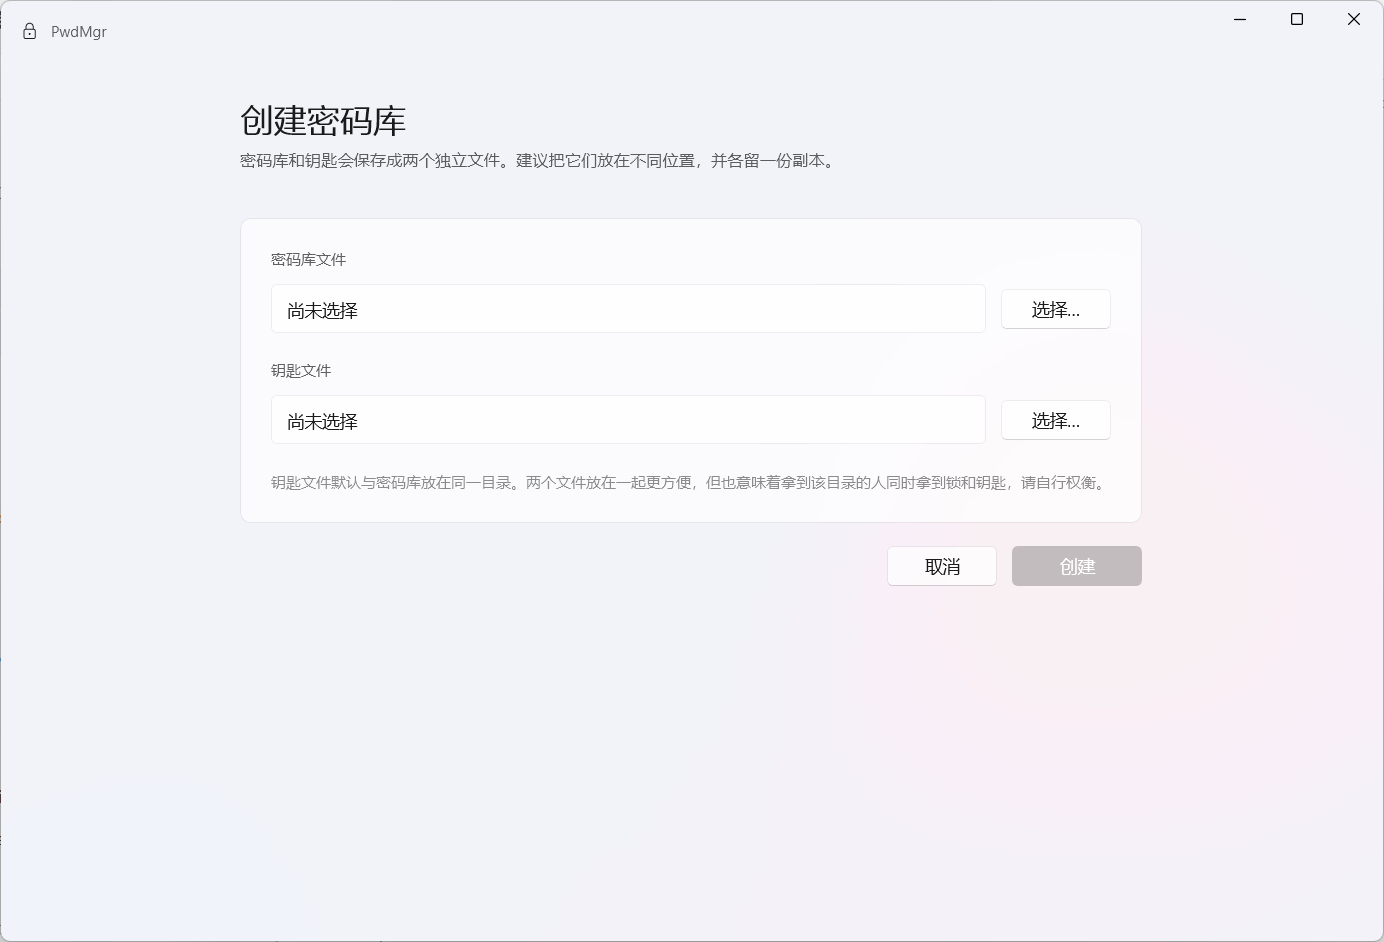
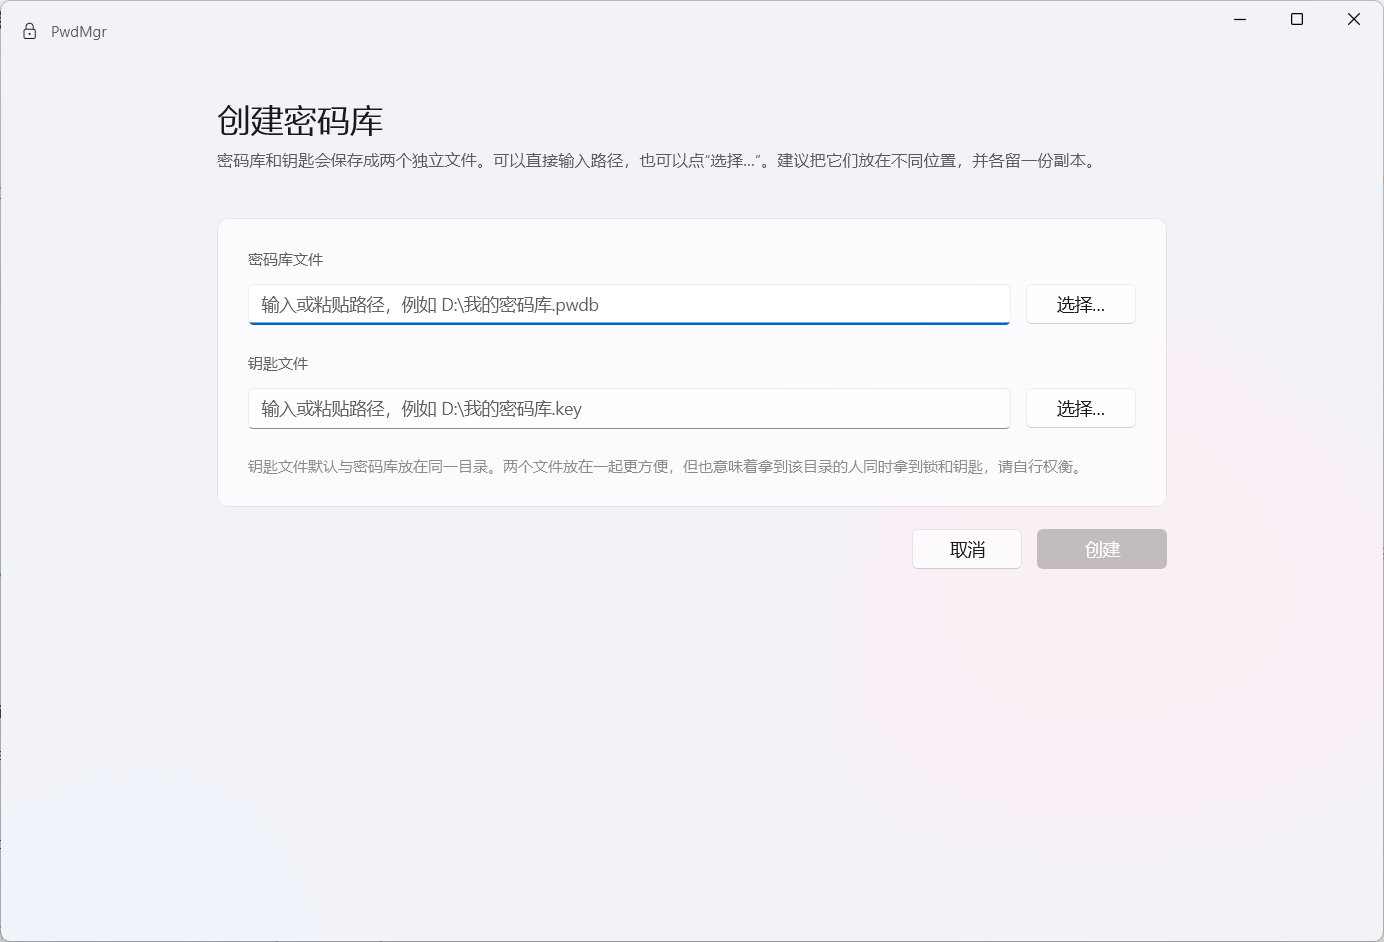
界面微调：欢迎页图标与标题居中；创建/打开页支持直接输入路径

diff --git a/src/PwdMgr.App/Views/CreateVaultPage.xaml b/src/PwdMgr.App/Views/CreateVaultPage.xaml
@@ -11,7 +11,7 @@
                 <TextBlock Text="创建密码库" Style="{StaticResource PageTitleStyle}" />
                 <TextBlock
                     Style="{StaticResource PageSubtitleStyle}"
-                    Text="密码库和钥匙会保存成两个独立文件。建议把它们放在不同位置，并各留一份副本。" />
+                    Text="密码库和钥匙会保存成两个独立文件。可以直接输入路径，也可以点“选择…”。建议把它们放在不同位置，并各留一份副本。" />
             </StackPanel>
 
             <InfoBar
@@ -26,17 +26,12 @@
                     <StackPanel Spacing="8">
                         <TextBlock Text="密码库文件" Style="{StaticResource FieldLabelStyle}" />
                         <Grid ColumnDefinitions="*,Auto" ColumnSpacing="12">
-                            <Border
-                                Background="{ThemeResource ControlFillColorDefaultBrush}"
-                                BorderBrush="{ThemeResource ControlStrokeColorDefaultBrush}"
-                                BorderThickness="1"
-                                CornerRadius="4"
-                                Padding="12,9">
-                                <TextBlock
-                                    Text="{x:Bind ViewModel.VaultPathDisplay, Mode=OneWay}"
-                                    TextTrimming="CharacterEllipsis"
-                                    VerticalAlignment="Center" />
-                            </Border>
+                            <TextBox
+                                x:Name="VaultPathBox"
+                                AutomationProperties.AutomationId="VaultPathBox"
+                                Text="{x:Bind ViewModel.VaultPath, Mode=TwoWay, UpdateSourceTrigger=PropertyChanged}"
+                                PlaceholderText="输入或粘贴路径，例如 D:\我的密码库.pwdb"
+                                TextChanged="OnVaultPathChanged" />
                             <Button Grid.Column="1" Content="选择…" Click="OnPickVaultClick" MinWidth="88" />
                         </Grid>
                     </StackPanel>
@@ -44,17 +39,12 @@
                     <StackPanel Spacing="8">
                         <TextBlock Text="钥匙文件" Style="{StaticResource FieldLabelStyle}" />
                         <Grid ColumnDefinitions="*,Auto" ColumnSpacing="12">
-                            <Border
-                                Background="{ThemeResource ControlFillColorDefaultBrush}"
-                                BorderBrush="{ThemeResource ControlStrokeColorDefaultBrush}"
-                                BorderThickness="1"
-                                CornerRadius="4"
-                                Padding="12,9">
-                                <TextBlock
-                                    Text="{x:Bind ViewModel.KeyPathDisplay, Mode=OneWay}"
-                                    TextTrimming="CharacterEllipsis"
-                                    VerticalAlignment="Center" />
-                            </Border>
+                            <TextBox
+                                x:Name="KeyPathBox"
+                                AutomationProperties.AutomationId="KeyPathBox"
+                                Text="{x:Bind ViewModel.KeyPath, Mode=TwoWay, UpdateSourceTrigger=PropertyChanged}"
+                                PlaceholderText="输入或粘贴路径，例如 D:\我的密码库.key"
+                                TextChanged="OnKeyPathChanged" />
                             <Button Grid.Column="1" Content="选择…" Click="OnPickKeyClick" MinWidth="88" />
                         </Grid>
                     </StackPanel>

diff --git a/src/PwdMgr.App/Views/UnlockVaultPage.xaml b/src/PwdMgr.App/Views/UnlockVaultPage.xaml
@@ -11,7 +11,7 @@
                 <TextBlock Text="打开密码库" Style="{StaticResource PageTitleStyle}" />
                 <TextBlock
                     Style="{StaticResource PageSubtitleStyle}"
-                    Text="同时指定密码库文件与它对应的钥匙文件。两者必须来自同一次创建。" />
+                    Text="同时指定密码库文件与它对应的钥匙文件，可以直接输入或粘贴路径。两者必须来自同一次创建。" />
             </StackPanel>
 
             <InfoBar
@@ -26,17 +26,11 @@
                     <StackPanel Spacing="8">
                         <TextBlock Text="密码库文件" Style="{StaticResource FieldLabelStyle}" />
                         <Grid ColumnDefinitions="*,Auto" ColumnSpacing="12">
-                            <Border
-                                Background="{ThemeResource ControlFillColorDefaultBrush}"
-                                BorderBrush="{ThemeResource ControlStrokeColorDefaultBrush}"
-                                BorderThickness="1"
-                                CornerRadius="4"
-                                Padding="12,9">
-                                <TextBlock
-                                    Text="{x:Bind ViewModel.VaultPathDisplay, Mode=OneWay}"
-                                    TextTrimming="CharacterEllipsis"
-                                    VerticalAlignment="Center" />
-                            </Border>
+                            <TextBox
+                                x:Name="VaultPathBox"
+                                AutomationProperties.AutomationId="VaultPathBox"
+                                Text="{x:Bind ViewModel.VaultPath, Mode=TwoWay, UpdateSourceTrigger=PropertyChanged}"
+                                PlaceholderText="输入或粘贴路径，例如 D:\我的密码库.pwdb" />
                             <Button Grid.Column="1" Content="选择…" Click="OnPickVaultClick" MinWidth="88" />
                         </Grid>
                     </StackPanel>
@@ -44,17 +38,11 @@
                     <StackPanel Spacing="8">
                         <TextBlock Text="钥匙文件" Style="{StaticResource FieldLabelStyle}" />
                         <Grid ColumnDefinitions="*,Auto" ColumnSpacing="12">
-                            <Border
-                                Background="{ThemeResource ControlFillColorDefaultBrush}"
-                                BorderBrush="{ThemeResource ControlStrokeColorDefaultBrush}"
-                                BorderThickness="1"
-                                CornerRadius="4"
-                                Padding="12,9">
-                                <TextBlock
-                                    Text="{x:Bind ViewModel.KeyPathDisplay, Mode=OneWay}"
-                                    TextTrimming="CharacterEllipsis"
-                                    VerticalAlignment="Center" />
-                            </Border>
+                            <TextBox
+                                x:Name="KeyPathBox"
+                                AutomationProperties.AutomationId="KeyPathBox"
+                                Text="{x:Bind ViewModel.KeyPath, Mode=TwoWay, UpdateSourceTrigger=PropertyChanged}"
+                                PlaceholderText="输入或粘贴路径，例如 D:\我的密码库.key" />
                             <Button Grid.Column="1" Content="选择…" Click="OnPickKeyClick" MinWidth="88" />
                         </Grid>
                     </StackPanel>

diff --git a/src/PwdMgr.App/Views/WelcomePage.xaml b/src/PwdMgr.App/Views/WelcomePage.xaml
@@ -15,7 +15,7 @@
                 Width="60"
                 Height="60"
                 CornerRadius="16"
-                HorizontalAlignment="Left"
+                HorizontalAlignment="Center"
                 Background="{ThemeResource AccentFillColorDefaultBrush}">
                 <FontIcon
                     Glyph="&#xE72E;"
@@ -24,7 +24,11 @@
             </Border>
 
             <StackPanel Spacing="10">
-                <TextBlock Text="PwdMgr" FontSize="34" FontWeight="SemiBold" />
+                <TextBlock
+                    Text="PwdMgr"
+                    FontSize="34"
+                    FontWeight="SemiBold"
+                    HorizontalAlignment="Center" />
                 <TextBlock
                     Style="{StaticResource PageSubtitleStyle}"
                     Text="本地离线密码管理器。密码库是一个加密文件，钥匙文件由你自己保管；软件运行时不联网，也不会上传任何数据。" />

diff --git a/src/PwdMgr.App/Views/CreateVaultPage.xaml.cs b/src/PwdMgr.App/Views/CreateVaultPage.xaml.cs
@@ -15,6 +15,36 @@ public sealed partial class CreateVaultPage : Page
 
     public CreateVaultViewModel ViewModel { get; } = new();
 
+    /// <summary>最近一次自动推导出来的钥匙路径；用户自己改过之后就不再覆盖。</summary>
+    private string _autoKeyPath = string.Empty;
+
+    private void OnVaultPathChanged(object sender, TextChangedEventArgs e)
+    {
+        var vaultPath = (sender as TextBox)?.Text.Trim() ?? string.Empty;
+        var suggestion = FilePickerService.SuggestKeyPath(vaultPath);
+        if (suggestion.Length == 0)
+        {
+            return;
+        }
+
+        var keyPath = ViewModel.KeyPath.Trim();
+        if (keyPath.Length == 0 || string.Equals(keyPath, _autoKeyPath, StringComparison.OrdinalIgnoreCase))
+        {
+            ViewModel.KeyPath = suggestion;
+            _autoKeyPath = suggestion;
+        }
+    }
+
+    private void OnKeyPathChanged(object sender, TextChangedEventArgs e)
+    {
+        // 用户自己改了钥匙路径，就不再自动覆盖。
+        var text = (sender as TextBox)?.Text.Trim() ?? string.Empty;
+        if (!string.Equals(text, _autoKeyPath, StringComparison.OrdinalIgnoreCase))
+        {
+            _autoKeyPath = string.Empty;
+        }
+    }
+
     private void OnPickVaultClick(object sender, RoutedEventArgs e)
     {
         var path = FilePickerService.PickVaultToCreate(App.ShellWindow, "我的密码库");
@@ -28,6 +58,7 @@ public sealed partial class CreateVaultPage : Page
         if (string.IsNullOrWhiteSpace(ViewModel.KeyPath))
         {
             ViewModel.KeyPath = FilePickerService.SuggestKeyPath(path);
+            _autoKeyPath = ViewModel.KeyPath;
         }
     }
 
@@ -42,6 +73,9 @@ public sealed partial class CreateVaultPage : Page
 
     private void OnCancelClick(object sender, RoutedEventArgs e) => App.Shell.NavigateToWelcome();
 
+    /// <summary>去掉首尾空白与粘贴时可能带上的引号。</summary>
+    private static string CleanPath(string path) => path.Trim().Trim('"').Trim();
+
     private async void OnCreateClick(object sender, RoutedEventArgs e)
     {
         ViewModel.ErrorMessage = null;
@@ -50,7 +84,10 @@ public sealed partial class CreateVaultPage : Page
         VaultSession? session = null;
         try
         {
-            session = await VaultSession.CreateAsync(ViewModel.VaultPath, ViewModel.KeyPath);
+            var vaultPath = CleanPath(ViewModel.VaultPath);
+            var keyPath = CleanPath(ViewModel.KeyPath);
+
+            session = await VaultSession.CreateAsync(vaultPath, keyPath);
             await ShowCreatedDialogAsync(session);
 
             await App.Shell.EnterVaultAsync(session);

diff --git a/src/PwdMgr.App/Views/UnlockVaultPage.xaml.cs b/src/PwdMgr.App/Views/UnlockVaultPage.xaml.cs
@@ -54,6 +54,9 @@ public sealed partial class UnlockVaultPage : Page
 
     private void OnBackClick(object sender, RoutedEventArgs e) => App.Shell.NavigateToWelcome();
 
+    /// <summary>去掉首尾空白与粘贴时可能带上的引号。</summary>
+    private static string CleanPath(string path) => path.Trim().Trim('"').Trim();
+
     private async void OnOpenClick(object sender, RoutedEventArgs e)
     {
         ViewModel.ErrorMessage = null;
@@ -62,7 +65,10 @@ public sealed partial class UnlockVaultPage : Page
         VaultSession? session = null;
         try
         {
-            session = await VaultSession.OpenAsync(ViewModel.VaultPath, ViewModel.KeyPath);
+            var vaultPath = CleanPath(ViewModel.VaultPath);
+            var keyPath = CleanPath(ViewModel.KeyPath);
+
+            session = await VaultSession.OpenAsync(vaultPath, keyPath);
             await App.Shell.EnterVaultAsync(session);
             session = null;
         }

diff --git a/src/PwdMgr.App/ViewModels/CreateVaultViewModel.cs b/src/PwdMgr.App/ViewModels/CreateVaultViewModel.cs
@@ -17,7 +17,6 @@ public sealed class CreateVaultViewModel : ObservableObject
         {
             if (SetProperty(ref _vaultPath, value))
             {
-                OnPropertyChanged(nameof(VaultPathDisplay));
                 OnPropertyChanged(nameof(CanCreate));
             }
         }
@@ -30,15 +29,10 @@ public sealed class CreateVaultViewModel : ObservableObject
         {
             if (SetProperty(ref _keyPath, value))
             {
-                OnPropertyChanged(nameof(KeyPathDisplay));
                 OnPropertyChanged(nameof(CanCreate));
             }
         }
     }
-
-    public string VaultPathDisplay => string.IsNullOrWhiteSpace(VaultPath) ? "尚未选择" : VaultPath;
-
-    public string KeyPathDisplay => string.IsNullOrWhiteSpace(KeyPath) ? "尚未选择" : KeyPath;
 
     public bool IsBusy
     {

diff --git a/src/PwdMgr.App/ViewModels/UnlockVaultViewModel.cs b/src/PwdMgr.App/ViewModels/UnlockVaultViewModel.cs
@@ -17,7 +17,6 @@ public sealed class UnlockVaultViewModel : ObservableObject
         {
             if (SetProperty(ref _vaultPath, value))
             {
-                OnPropertyChanged(nameof(VaultPathDisplay));
                 OnPropertyChanged(nameof(CanOpen));
             }
         }
@@ -30,15 +29,10 @@ public sealed class UnlockVaultViewModel : ObservableObject
         {
             if (SetProperty(ref _keyPath, value))
             {
-                OnPropertyChanged(nameof(KeyPathDisplay));
                 OnPropertyChanged(nameof(CanOpen));
             }
         }
     }
-
-    public string VaultPathDisplay => string.IsNullOrWhiteSpace(VaultPath) ? "尚未选择" : VaultPath;
-
-    public string KeyPathDisplay => string.IsNullOrWhiteSpace(KeyPath) ? "尚未选择" : KeyPath;
 
     public bool IsBusy
     {

diff --git a/docs/技术方案-v1.md b/docs/技术方案-v1.md
@@ -602,3 +602,19 @@ M5 交付：备份、自检、从备份恢复、错误提示与互斥提示。
 - Core 单元测试新增 9 个（共 **71** 个）：备份能打开、备份前自动保存、同路径拒绝、校验计数、篡改/截断检测、恢复回被删条目、恢复别库备份报 KeyMismatch、备份缺失报 VaultFileNotFound。
 - UI 自动化：检查密码库显示“校验通过…”；创建备份生成文件且显示“备份已保存”；删除条目后列表消失、回收站可见。
 - 说明：开发沙箱里原生文件对话框不会真正显示（GetSaveFileNameW 直接以默认文件名返回），因此“从备份恢复”的对话框链路无法自动化；Core 逻辑由单测覆盖，界面接线与“创建备份”共用同一套模式，需在正常桌面上手工确认一次。
+
+---
+
+## 23. 界面微调（用户反馈）
+
+### 23.1 欢迎页居中
+
+图标与标题原先贴左显示，改为居中：图标 HorizontalAlignment="Center"，标题 TextBlock 同样居中；说明文字与按钮保持原有宽度，整体仍是屏幕居中的一个 440 宽度区块。
+
+### 23.2 创建/打开页面支持直接输入路径
+
+- 原先路径只显示在一个只读的 Border + TextBlock 里，必须点“选择…”打开文件对话框；现在改成可编辑的 TextBox，双向绑定到 ViewModel，保留“选择…”按钮。
+- 创建页：输入/粘贴库路径时自动推导钥匙路径（同目录同名 .key）；一旦用户手动改过钥匙路径，就不再覆盖（用 _autoKeyPath 记录自动值判断）。
+- 两个页面都会在提交前去掉首尾空白与粘贴时可能带上的引号（CleanPath）。
+- 创建页的“创建”按钮仍要求两个路径都非空，输入时即时可用。
+- 验证：UI 自动化直接在输入框里填路径完成“创建 → 进入主界面”和“重新打开”，AUTO_KEY=True、文件与钥匙都生成、两次都进入了主界面。

diff --git a/README.md b/README.md
@@ -21,6 +21,8 @@
 
 条目字段直接可改，出现改动后卡片底部出现“保存修改 / 放弃修改”；详情底部可以“移入回收站”，回收站支持恢复、彻底删除和清空。密码框右侧有“🎲”按钮直接生成密码，用户名和密码旁都可以一键复制（30 秒后自动清空剪贴板）。闲置 5 分钟或锁屏时自动上锁。
 
+创建与打开页面既可以用“选择…”挑文件，也可以直接输入或粘贴路径（输入库路径时会自动补出钥匙路径）。欢迎页的图标与标题居中显示。
+
 界面使用 WinUI 3 + Fluent 主题资源 + Mica 背景，跟随系统深色/浅色设置。
 
 ## 目录结构
